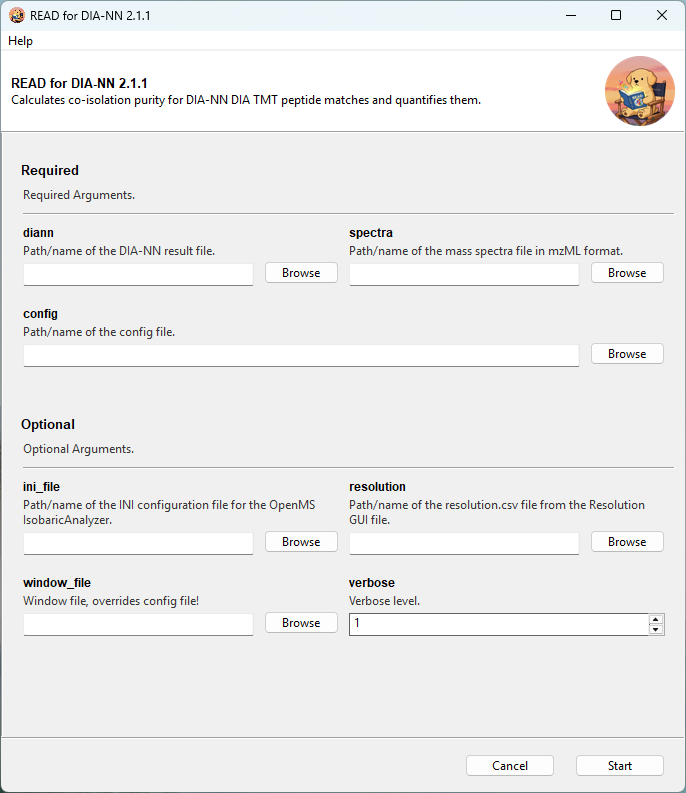
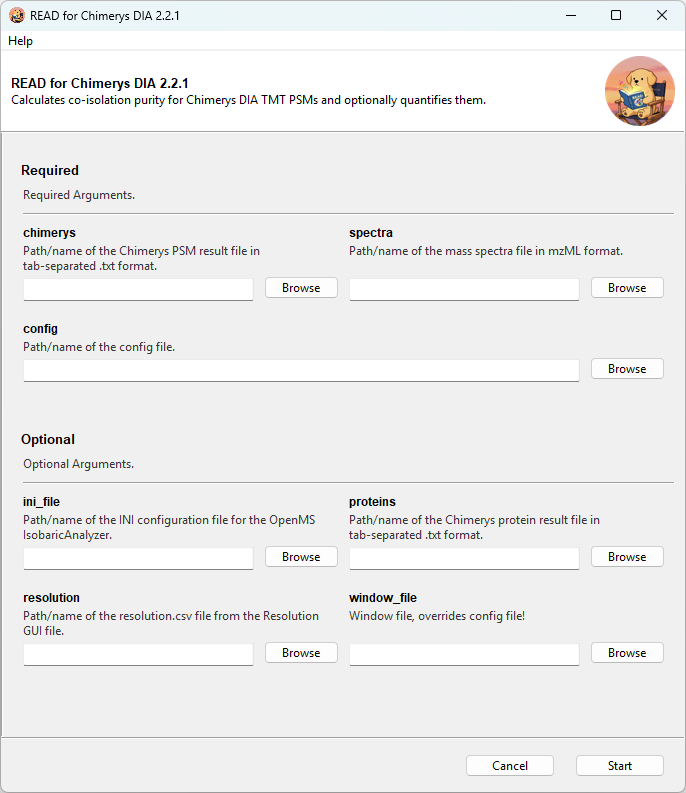
small doc fixes

diff --git a/README.md b/README.md
@@ -31,7 +31,7 @@ which can be downloaded [here](https://github.com/hgb-bin-proteomics/READ/releas
 
 ## Installation
 
-You can install READ from [PyPI] via pip:
+You can install READ from [PyPI](https://pypi.org/p/IMP-READ/) via pip:
 
 ```bash
 pip install imp-read
@@ -77,11 +77,12 @@ IsobaricAnalyzer -write_ini tmt18plex_default.ini
 ```
 
 Alternatively, you can use the `tmt18plex_default.ini` file in the `config/` directory. You might have to unblock the
-downloaded `tmt18plex_default.ini` file for usage with REID either via its _Properties_ (right-click) or 
+downloaded `tmt18plex_default.ini` file for usage with READ either via its _Properties_ (right-click) or 
 using [PowerShell](https://learn.microsoft.com/en-us/powershell/module/microsoft.powershell.utility/unblock-file).
 
 ### Configuration
 
+An example READ config file is given in the `config/` directory.
 Please set the following parameters according to your needs in the `config.toml` file:
 
 ```toml
@@ -179,6 +180,10 @@ TODO
 You might also want to use the output of the Resolution GUI tool developed by Dina L. Bai, Tian Zhang _et al._ [\[1\]](https://doi.org/10.1038/s41467-025-60022-x) as additional input for better quality control. Please refer to this repository for instructions: [https://github.com/hgb-bin-proteomics/TMT_Resolution_GUI](https://github.com/hgb-bin-proteomics/TMT_Resolution_GUI).
 
 - [1] Keele, G.R., Dou, Y., Kodikara, S.P. et al. Expanding the landscape of aging via orbitrap astral mass spectrometry and tandem mass tag integration. Nat Commun 16, 4753 (2025). [https://doi.org/10.1038/s41467-025-60022-x](https://doi.org/10.1038/s41467-025-60022-x)
+
+## Use of Generative-AI/LLMs
+
+The READ logo was generated with [Lumo AI](https://proton.me/lumo). No Gen-AI/LLMs were used for anything else otherwise.
 
 ## Contact
 

diff --git a/docs/CLI.md b/docs/CLI.md
@@ -8,7 +8,7 @@ You can find all scripts in the `/scripts` folder.
 > [!NOTE]
 >
 > Installing READ to your global environment will make all scripts globally available,
-> nevertheless we recommend using uv even though it requires copying the script to the
+> nevertheless we recommend using uv even though it requires copying the scripts to the
 > desired running location. However, this has the benefit that READ runs in an isolated
 > environment!
 
@@ -196,7 +196,7 @@ You can find all scripts in the `/scripts` folder.
     ```bash
     pip install imp-read
     ```
-  - Run the script with:
+  - Run READ with:
     ```bash
     tmt_diann -s SPECTRA.mzML -i report.parquet -c config.toml -t tmt18plex_default.ini
     ```
